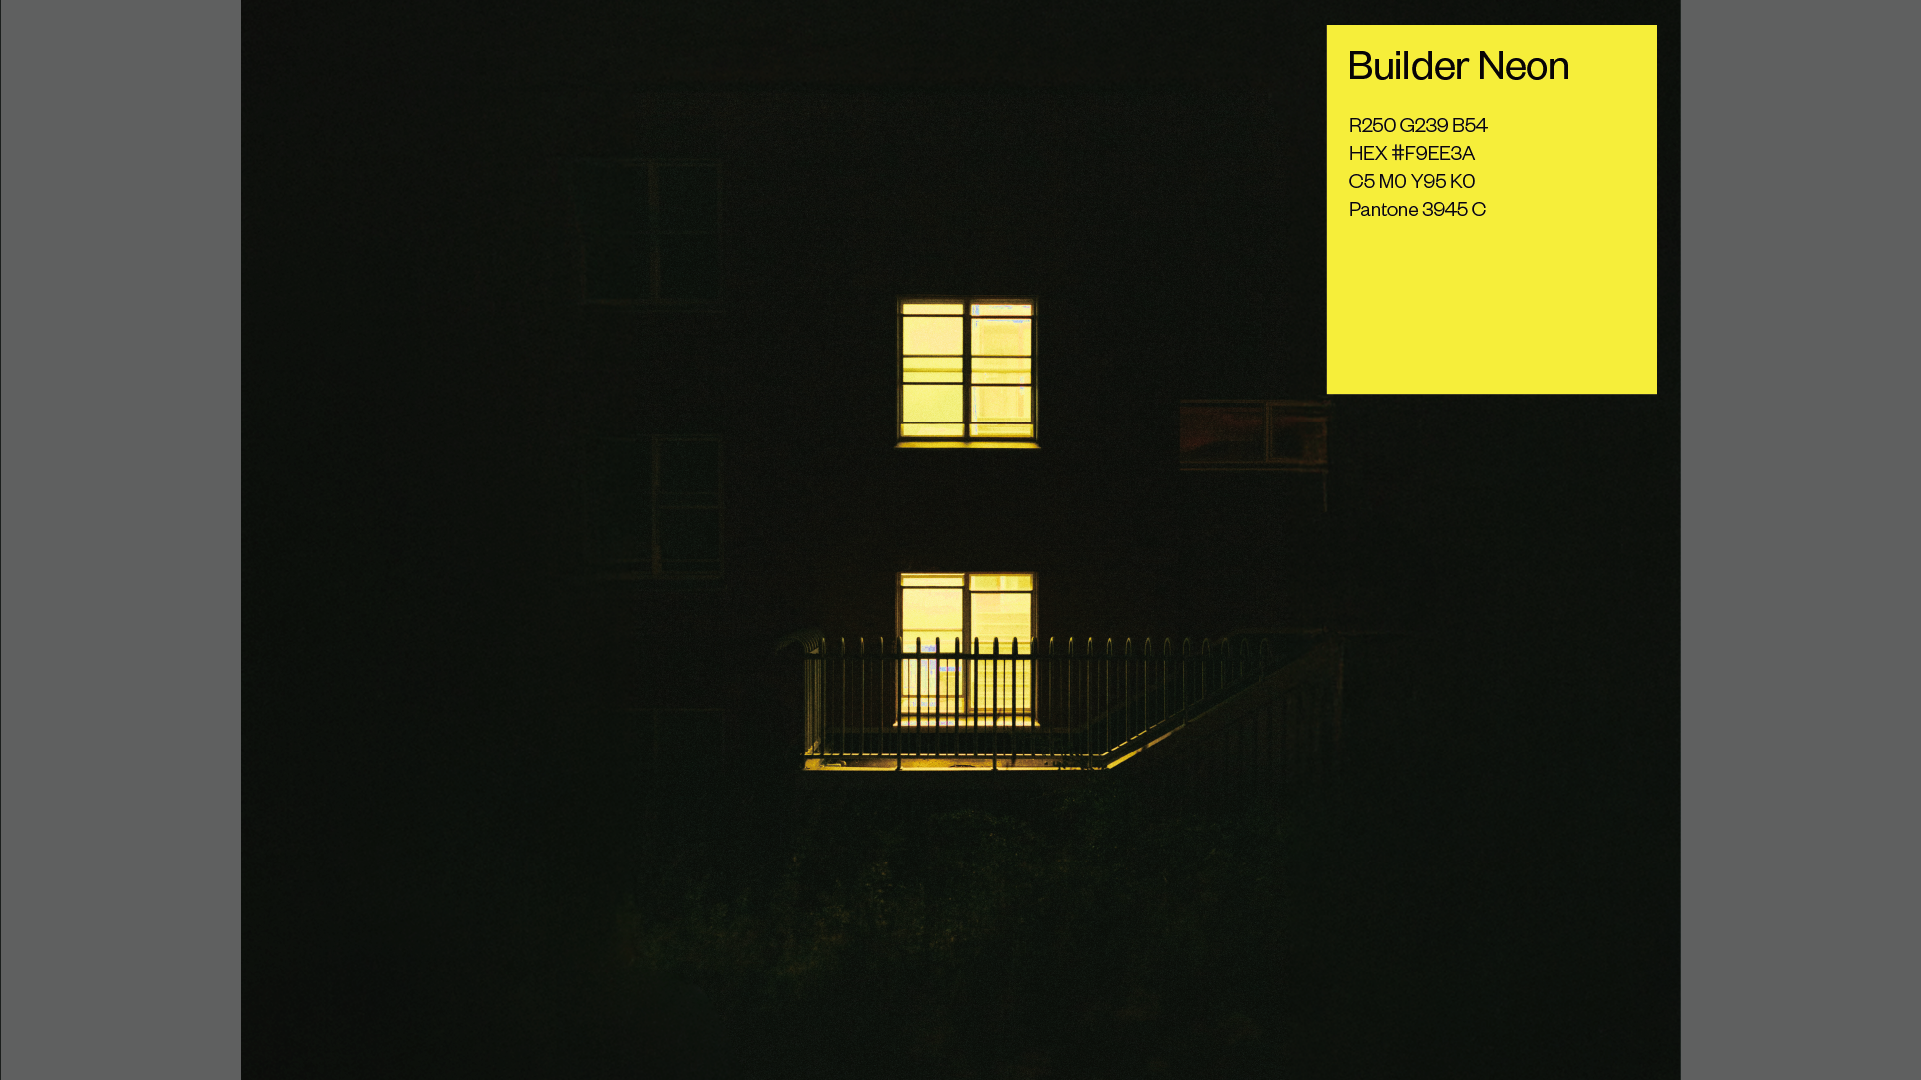
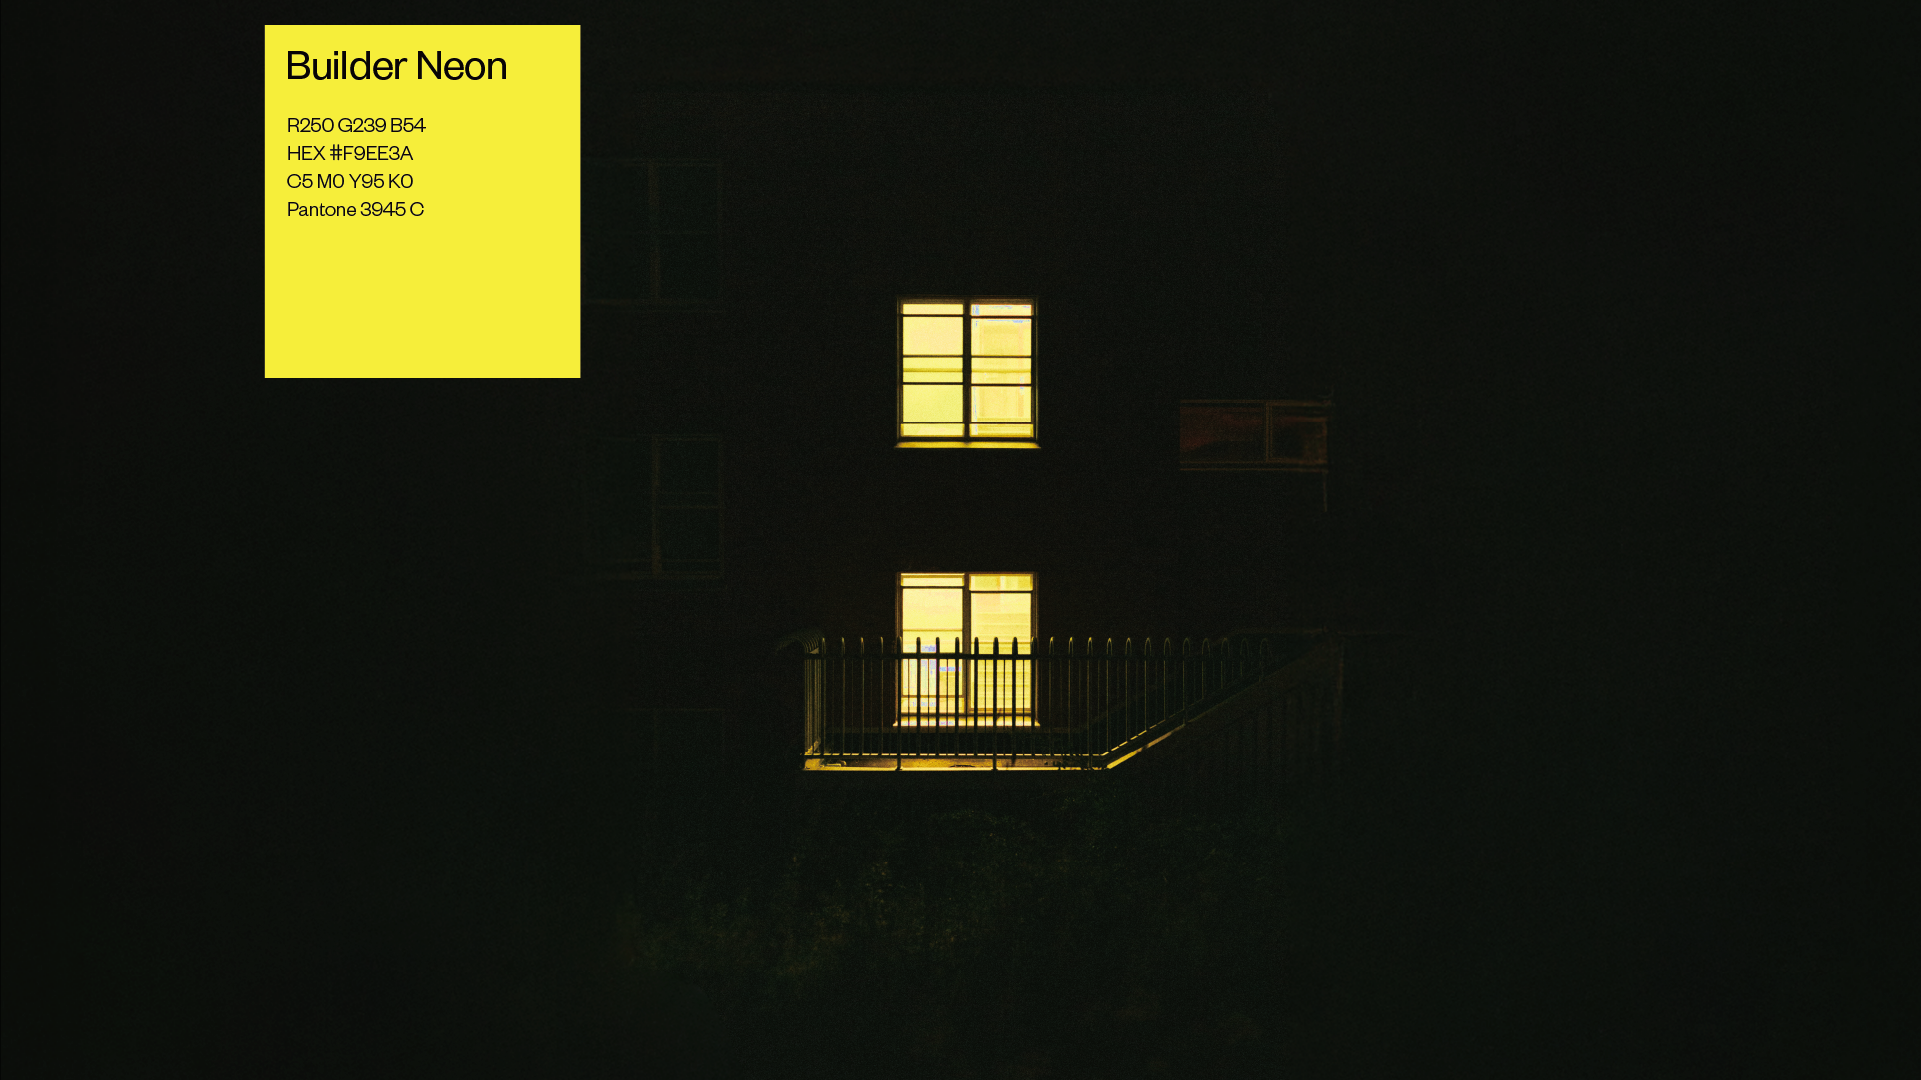
Mobile: menu button backdrop transparent, lightbox always on the black veil; Colors figures replaced with the 11:37 export

diff --git a/src/styles/tokens.css b/src/styles/tokens.css
@@ -336,7 +336,7 @@
   --bg: color-mix(in srgb, var(--c-solid-gray), var(--c-space-black) 24%); /* 본문 영역. Solid Gray 를 조금 어둡게 = 기존 사이트 배경(#202020 근사) */
   --bg-sidebar: var(--bg); /* 목차 */
   --sidebar-border: color-mix(in srgb, var(--bg-sidebar), var(--c-air-white) 0%); /* 목차 우측선. 0% = 안 보임 */
-  --topbar-menu-bg: var(--bg); /* 모바일 목차 버튼 바탕 (본문 위를 지나도 읽히게). 페이지 배경과 같은 색 */
+  --topbar-menu-bg: transparent; /* 모바일 목차 버튼 바탕. transparent = 아이콘만 떠 있음, var(--bg) = 페이지 색 네모를 깔아 본문 위에서도 읽히게 */
 
   /* 3-2 글자 */
   --fg: var(--c-air-white);

diff --git a/src/styles/base.css b/src/styles/base.css
@@ -1267,7 +1267,10 @@ html.js .main {
     height: auto !important;
   }
   .lightbox__mirror {
-    display: none; /* 모바일은 거울 확장 없이 가장자리 색만 */
+    display: none; /* 모바일은 거울 확장 없음 */
+  }
+  .lightbox.has-edge {
+    background: var(--lightbox-bg); /* 모바일은 가장자리 색도 쓰지 않고 기본 막(검정) */
   }
 }
 /* 거울 확장 — 이미지와 같은 크기의 상자(motion.ts 가 크기를 맞춤)를 중심으로, 8방향에 뒤집은 사본을 이어 붙임.
